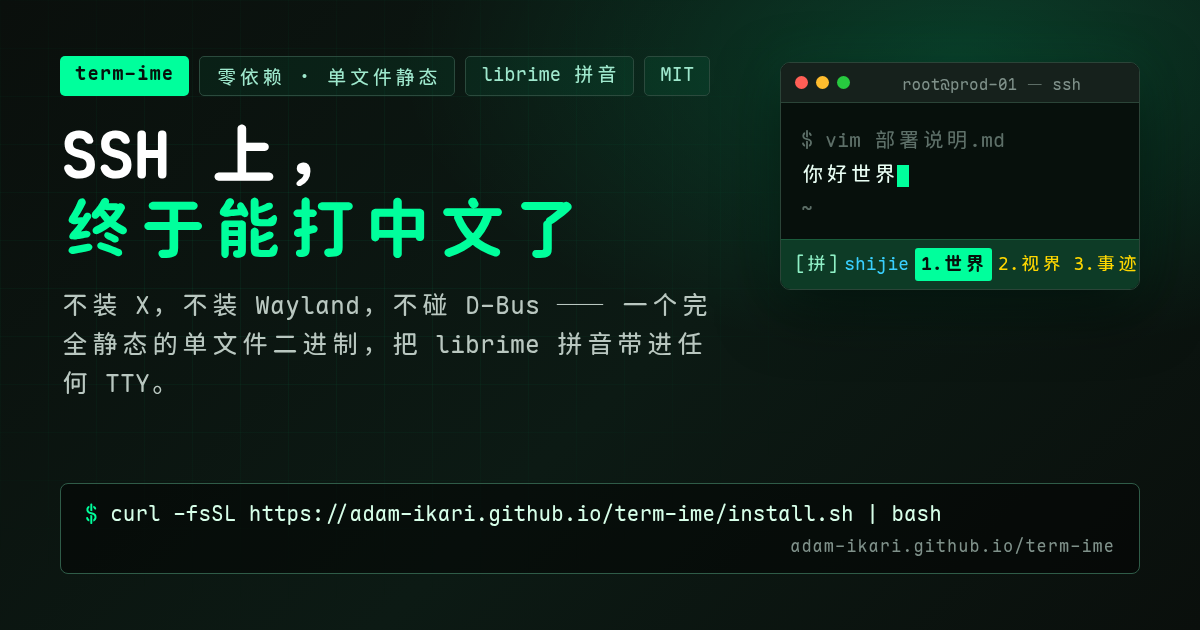
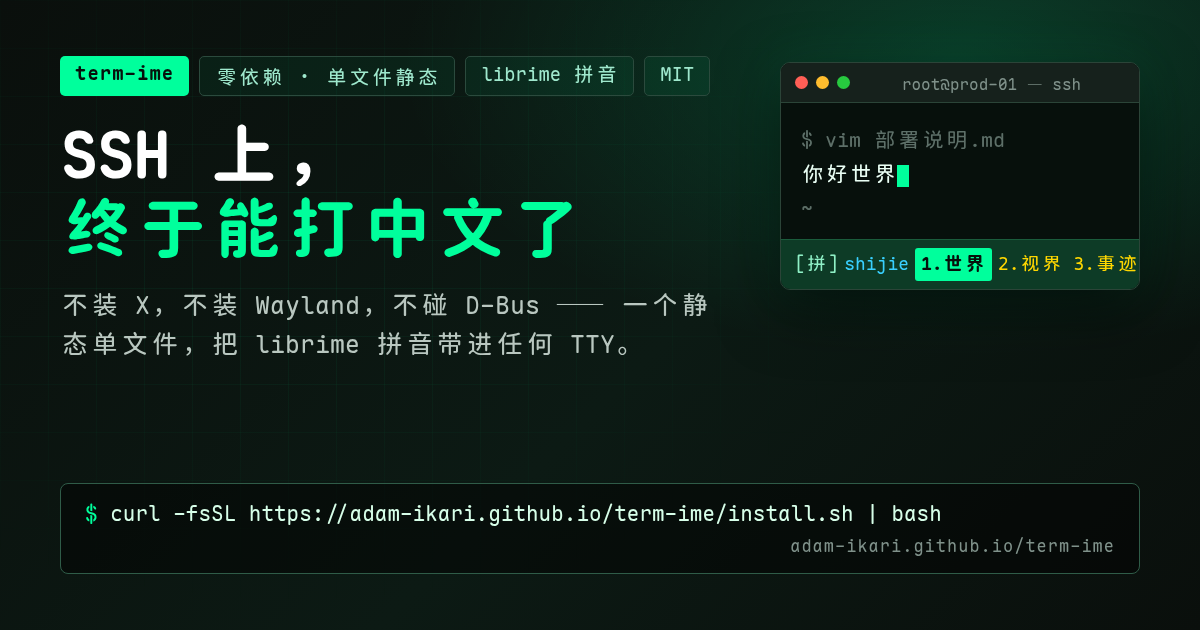
copy(website): 信创改为无桌面 Linux server，全站去 AI 味
- 定位表述「信创机器/麒麟 V10/UOS/方德」统一改为「无桌面的 Linux server / 最小化安装」
  （index hero、chips、痛点卡、og meta、og-image 图）
- 去 AI 味：删破折号揭示式句式、空泛形容词（极小/完全/正经）、否定式排比，
  打散公式化标题，收敛「一键/最佳/完全静态」等填充词
- og-image.html 修正字体路径（static/fonts 不存在 → src/assets/fonts），重渲染 1200x630

Changed region(s): [[0.0308, 0.4524, 0.5858, 0.6333]]

diff --git a/website/src/pages/index.tsx b/website/src/pages/index.tsx
@@ -22,7 +22,7 @@ const structuredData = {
       applicationCategory: 'UtilityApplication',
       operatingSystem: 'Linux / Unix (TTY, no desktop required)',
       description:
-        '终端上，终于能打中文了：无 X、无 Wayland、无 D-Bus 的终端中文输入法。输入法引擎库（term-ime-lib，封装 librime）+ TUI 输入法组件（候选栏/状态栏/设置面板），完全静态单文件。',
+        '终端上，终于能打中文了：无 X、无 Wayland、无 D-Bus 的终端中文输入法。输入法引擎库（term-ime-lib，封装 librime）加 TUI 输入法组件（候选栏/状态栏/设置面板），静态单文件。',
       url: SITE_URL,
       license: 'https://opensource.org/licenses/MIT',
       offers: { '@type': 'Offer', price: '0', priceCurrency: 'USD' },
@@ -44,7 +44,7 @@ const structuredData = {
           name: 'term-ime 可以作为输入法库嵌入其他程序吗？',
           acceptedAnswer: {
             '@type': 'Answer',
-            text: '可以。term-ime-lib 是一个独立的静态库，通过极小的 ImeEngine C++ 接口封装 librime，任何 TUI 程序、编辑器插件或终端模拟器都能嵌入获得中文拼音输入能力。',
+            text: '可以。term-ime-lib 是独立静态库，通过很小的 ImeEngine C++ 接口封装 librime，任何 TUI 程序、编辑器插件或终端模拟器都能嵌入获得中文拼音输入。',
           },
         },
         {
@@ -259,8 +259,8 @@ function Hero() {
               终端上，终于能打中文了
             </Heading>
             <p className={styles.heroTagline}>
-              不装 X，不装 Wayland，不碰 D-Bus。一个完全静态的单文件二进制，
-              把 librime 拼音带进 SSH、Docker、WSL 和信创机器的纯终端。
+              不装 X、Wayland、D-Bus，一个静态单文件丢进去就能用。SSH、Docker、
+              WSL，或者一台没装桌面的 Linux server。
             </p>
 
             <div className={styles.installBox}>
@@ -325,7 +325,7 @@ function Hero() {
             'SSH 生产机',
             'Docker 容器',
             'WSL',
-            '麒麟 V10 / UOS 控制台',
+            '无桌面的 Linux server',
             '纯 TTY',
             'CI 交互调试',
           ].map((c) => (
@@ -346,8 +346,8 @@ function Pains() {
       desc: '想在 commit message、配置注释里写句话，只能切回桌面打好再粘过来，剪贴板还常常被终端搞乱。',
     },
     {
-      title: '信创机器一个汉字都打不出',
-      desc: '麒麟 V10 / UOS / 方德 Server 最小化安装，控制台连输入法框架都没有，全靠拼音字母硬凑。',
+      title: '最小化安装的 server 打不出中文',
+      desc: '没装桌面，控制台连输入法框架都没有，想写句中文注释只能拿拼音字母硬凑。',
     },
     {
       title: '容器里配输入法是场噩梦',
@@ -415,8 +415,7 @@ function Compare() {
           </table>
         </div>
         <p className={styles.tableNote}>
-          term-ime 直接读写终端字符流，不经过任何图形输入法框架 ——
-          所以它在没有桌面的地方照样工作。
+          term-ime 直接读写终端字符流，不经过图形输入法框架，没桌面的机器照样能用。
         </p>
       </div>
     </section>
@@ -491,7 +490,7 @@ function Features() {
   const features = [
     {
       title: 'librime 拼音',
-      desc: '跑的是正经 Rime 引擎，词库与候选排序和桌面版同源，不是玩具级的逐字匹配。',
+      desc: '正经 Rime 引擎，词库和候选排序跟桌面版同源，不是简单的逐字匹配。',
     },
     {
       title: '5 组模糊音',
@@ -503,7 +502,7 @@ function Features() {
     },
     {
       title: '自适应候选栏',
-      desc: '按终端宽度只显示放得下的候选，绝无半截词；逗号、句号成组翻页。',
+      desc: '按终端宽度只显示放得下的候选，不会露半截词；逗号、句号成组翻页。',
     },
     {
       title: '状态栏 + 设置面板',
@@ -511,14 +510,14 @@ function Features() {
     },
     {
       title: '中文不把界面撑歪',
-      desc: 'CJK 宽字符右半格对齐、SGR 16 色、ED/EL 擦除，中文和颜色都规规矩矩。',
+      desc: 'CJK 宽字符右半格对齐、SGR 16 色、ED/EL 擦除，中文和颜色都不会错位。',
     },
   ];
   return (
     <section className={clsx(styles.section, styles.sectionAlt)}>
       <div className="container">
         <Heading as="h2" className={styles.sectionTitle}>
-          它做对了哪些事
+          几个关键点
         </Heading>
         <div className={styles.featureGrid}>
           {features.map((f) => (
@@ -540,7 +539,7 @@ function Embed() {
     {
       title: 'term-ime-lib',
       subtitle: '输入法引擎库',
-      desc: '极小的 ImeEngine C++ 接口封装 librime。TUI 程序、编辑器插件、终端模拟器嵌入它就能获得拼音输入能力。',
+      desc: '很小的 ImeEngine C++ 接口封装 librime。TUI 程序、编辑器插件、终端模拟器嵌进来就能打拼音。',
       to: '/docs/library',
       linkLabel: '输入法库文档',
     },
@@ -684,7 +683,7 @@ export default function Home(): ReactNode {
   return (
     <Layout
       title={siteConfig.title}
-      description="终端上，终于能打中文了：无 X、无 Wayland、无 D-Bus 的终端中文输入法。librime 拼音 + 候选栏/状态栏 TUI 组件，完全静态单文件，一条命令安装。">
+      description="终端上，终于能打中文了：无 X、无 Wayland、无 D-Bus 的终端中文输入法。librime 拼音加候选栏/状态栏 TUI 组件，静态单文件，一条命令安装。">
       <Head>
         <script type="application/ld+json">{JSON.stringify(structuredData)}</script>
       </Head>

diff --git a/website/docusaurus.config.ts b/website/docusaurus.config.ts
@@ -6,7 +6,7 @@ const config: Config = {
   // title 出现在每个页面的 <title> 与 og:site_name。必须含品牌词 term-ime：
   // 否则搜 "term-ime" 时标题不匹配，Google 会把它当成拼写错误改写成 term-time。
   title: 'term-ime — Linux TTY 终端输入法',
-  tagline: '不装 X、不装 Wayland、不碰 D-Bus——一个静态单文件，把 librime 拼音带进任何 TTY',
+  tagline: '不装 X、Wayland、D-Bus，一个静态单文件把 librime 拼音带进任何 TTY',
   favicon: 'img/favicon.svg',
 
   url: 'https://adam-ikari.github.io',
@@ -22,7 +22,7 @@ const config: Config = {
   headTags: [
     {
       tagName: 'meta',
-      attributes: {name: 'description', content: '终端上，终于能打中文了：无 X、无 Wayland、无 D-Bus 的终端中文输入法。librime 拼音 + 候选栏/状态栏 TUI 组件，完全静态单文件，一条命令安装。'},
+      attributes: {name: 'description', content: '终端上，终于能打中文了：无 X、无 Wayland、无 D-Bus 的终端中文输入法。librime 拼音加候选栏/状态栏 TUI 组件，静态单文件，一条命令安装。'},
     },
     {
       tagName: 'meta',
@@ -34,7 +34,7 @@ const config: Config = {
     },
     {
       tagName: 'meta',
-      attributes: {property: 'og:description', content: '不装 X、不装 Wayland、不碰 D-Bus：一个静态单文件的终端中文输入法，封装 librime 拼音，SSH / Docker / WSL / 信创控制台通用。'},
+      attributes: {property: 'og:description', content: '不装 X、不装 Wayland、不碰 D-Bus：静态单文件的终端中文输入法，封装 librime 拼音，SSH / Docker / WSL / 无桌面 Linux server 通用。'},
     },
     {
       tagName: 'meta',
@@ -58,7 +58,7 @@ const config: Config = {
     },
     {
       tagName: 'meta',
-      attributes: {name: 'twitter:description', content: '无 X、无 Wayland、无 D-Bus 的终端中文输入法：librime 拼音 + TUI 组件，完全静态单文件。'},
+      attributes: {name: 'twitter:description', content: '无 X、无 Wayland、无 D-Bus 的终端中文输入法：librime 拼音加 TUI 组件，静态单文件。'},
     },
     {
       tagName: 'meta',

diff --git a/website/og-image.html b/website/og-image.html
@@ -5,12 +5,12 @@
 <style>
   @font-face {
     font-family: 'MapleMonoNF';
-    src: url('static/fonts/MapleMono-NF-CN-Regular.woff2') format('woff2');
+    src: url('src/assets/fonts/MapleMono-NF-CN-Regular.woff2') format('woff2');
     font-weight: 400;
   }
   @font-face {
     font-family: 'MapleMonoNF';
-    src: url('static/fonts/MapleMono-NF-CN-Bold.woff2') format('woff2');
+    src: url('src/assets/fonts/MapleMono-NF-CN-Bold.woff2') format('woff2');
     font-weight: 700;
   }
   * { margin: 0; padding: 0; box-sizing: border-box; }
@@ -100,7 +100,7 @@
         <span class="badge">MIT</span>
       </div>
       <h1>SSH 上，<br /><em>终于能打中文了</em></h1>
-      <div class="sub">不装 X，不装 Wayland，不碰 D-Bus —— 一个完全静态的单文件二进制，把 librime 拼音带进任何 TTY。</div>
+      <div class="sub">不装 X，不装 Wayland，不碰 D-Bus —— 一个静态单文件，把 librime 拼音带进任何 TTY。</div>
     </div>
 
     <div class="term">

diff --git a/website/docs/library.md b/website/docs/library.md
@@ -4,7 +4,7 @@ sidebar_position: 5
 
 # 输入法库（term-ime-lib）
 
-term-ime 的 IME 引擎是一个**独立、可复用的静态库**：`term-ime-lib`。它封装 librime（Rime 输入法框架），对外暴露一个极小的 C++ 接口——任何程序（TUI、游戏、终端模拟器、编辑器插件）都能嵌入它，获得完整的中文拼音输入能力，而不必自己碰 Rime API。
+term-ime 的 IME 引擎是独立静态库 `term-ime-lib`。它封装 librime（Rime 输入法框架），对外只暴露一个很小的 C++ 接口。TUI 程序、游戏、终端模拟器、编辑器插件都能嵌进来获得中文拼音输入，不用自己碰 Rime API。
 
 ## 库结构
 
@@ -42,7 +42,7 @@ class ImeEngine {
 
 `RimeIme`（`src/ime/rime_engine.hpp`）是其 librime 实现。状态机约定：
 
-- **English 模式**下 `input()` 直接返回 `false`——IME 完全旁路，按键原样交给宿主
+- **English 模式**下 `input()` 直接返回 `false`，IME 完全旁路，按键原样交给宿主
 - 组合态：`state() == Composing`（输拼音中）→ `Selecting`（有候选可选）
 - `select(i)` 上屏后若拼音串已空，内部自动清空组合，宿主可直接回到空闲态
 
@@ -92,8 +92,8 @@ target_link_libraries(your_app PRIVATE term-ime-lib)
 
 ## Rime 专属能力
 
-- `select_schema(id)` / `get_schema_list()` / `get_current_schema()`——schema 级控制
-- `set_fuzzy_groups(...)`——模糊音按组开关；部分开启时自动合成 per-combination schema 并部署
+- `select_schema(id)` / `get_schema_list()` / `get_current_schema()`：schema 级控制
+- `set_fuzzy_groups(...)`：模糊音按组开关；部分开启时自动合成 per-combination schema 并部署
 - 简化字保证：OpenCC 链式转换（繁→简 + 日文新字体 + 异体字），候选里不会出现「楽/薬/妳」这类非简体字
 
 ## 测试

diff --git a/website/docs/quickstart.md b/website/docs/quickstart.md
@@ -30,12 +30,12 @@ make build
 > 命令名：安装脚本会把程序装成短命令 `ti`（terminal input），并保留 `term-ime` 软链接别名。从源码构建时直接运行 `./build/term-ime`，或把它放到 PATH 后用 `ti` 调用。
 
 :::tip 字体推荐
-推荐在终端使用等宽字体（如 [Maple Mono](https://github.com/subframe7536/maple-font)、Sarasa Mono、JetBrains Mono），以获得最佳的中文与候选词对齐效果。
+终端用等宽字体（[Maple Mono](https://github.com/subframe7536/maple-font)、Sarasa Mono、JetBrains Mono 都行），中文和候选词对齐最好。
 :::
 
 ## 配置（可选）
 
-配置文件位于 `~/.config/term-ime/config.json`。可在这里开关语言、切换界面语言。
+配置文件在 `~/.config/term-ime/config.json`，在这里开关语言、切界面语言。
 
 ```json
 {

diff --git a/website/docs/tui-component.md b/website/docs/tui-component.md
@@ -20,7 +20,7 @@ void render_candidates(const std::vector<Candidate>& candidates,
 
 在终端**最后一行**绘制候选栏（`mode` + 拼音串 + 数字编号候选）。核心契约：
 
-- **按宽度自适应**：只显示能完整放下的候选，放不下的不显示——`max_items` 是上限，窄终端自动少显示
+- **按宽度自适应**：只显示能完整放下的候选，放不下的不显示；`max_items` 是上限，窄终端自动少显示
 - **显示的集合 = 可选的集合**：显示与 `select()` 的索引严格对齐，不会出现"显示了却选不中"
 - **去重重绘**：IME 空闲时连续绘制是 no-op（有 `BAR_FORCE_REDRAW_EVERY` 兜底），避免 shell 输出驱动的高频重绘刷屏
 

diff --git a/website/docs/fuzzy.md b/website/docs/fuzzy.md
@@ -4,7 +4,7 @@ sidebar_position: 4
 
 # 模糊音
 
-模糊音让你可以用「不标准的读音」打出目标字词——方言、口音或个人习惯导致的平翘舌不分、前后鼻音不分等，都能被识别。term-ime 的模糊音**按组独立开关**，想开哪组开哪组。
+模糊音让你用「不标准的读音」也能打出目标字词。方言、口音或个人习惯造成的平翘舌不分、前后鼻音不分，都能识别。term-ime 的模糊音按组独立开关，想开哪组开哪组。
 
 ## 五组开关
 
